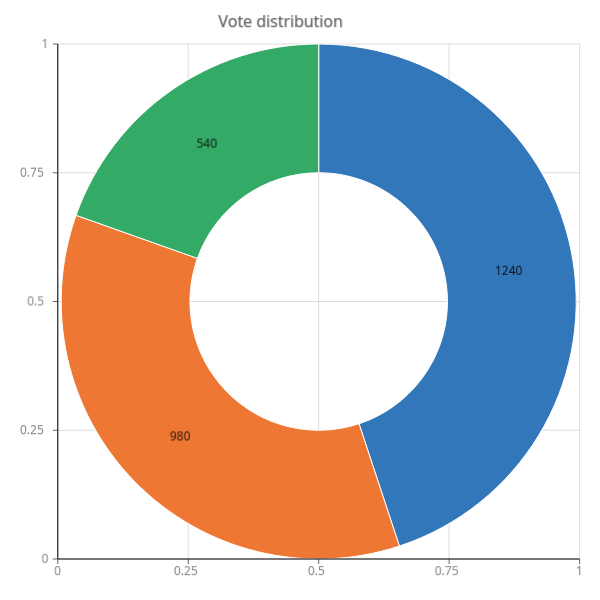
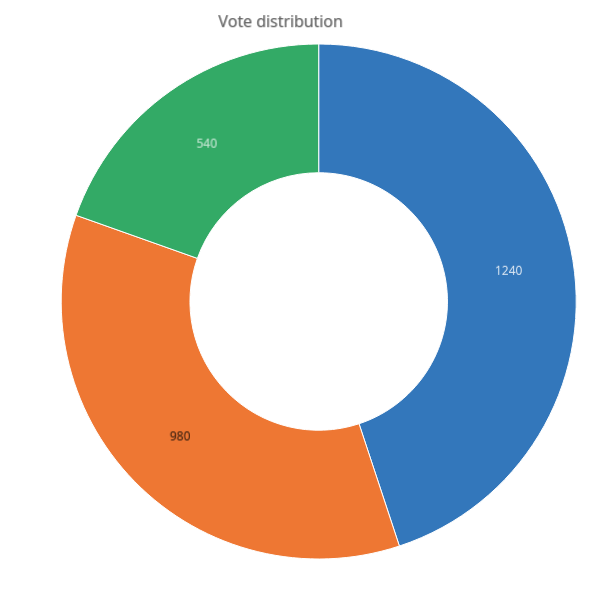
fix(pie): suppress axes for pie-only figures + auto-contrast slice labels
Closes starsight-yrp.2 (axes on pie charts) and starsight-yrp.3 (label
color contrast).

Mark trait change:
- New default `wants_axes() -> bool { true }` method. PieMark overrides
  to false; every other mark inherits the default. Defaulted so
  external impls don't break (pre-1.0 minor break in spirit).

Figure::render_to:
- When `self.marks.iter().all(|m| !m.wants_axes())`, skip both
  render_grid_lines and render_axes. Mixed charts keep the axes for
  the marks that do want them. render_background still runs so the
  plot rect's white fill stays visible.

PieMark::render:
- Auto-pick label color per slice via Rec. 601 luminance: white text
  when slice fill luminance < 0.5, black otherwise. The explicit
  `.label_color(c)` builder still wins for callers who set it
  explicitly away from the BLACK default.

Two snapshots regenerate (snapshot_pie_basic, snapshot_donut_basic).
Example PNGs (pie.png, donut.png) visually verified — wedges read as
a clean pie/donut without numeric axis chrome, percent / value labels
readable on every slice including the dark blue and pink ones.

diff --git a/starsight-layer-3/src/marks/pie.rs b/starsight-layer-3/src/marks/pie.rs
@@ -170,10 +170,11 @@ impl Mark for PieMark {
             } else {
                 build_pie_slice(cx, cy, outer_r, start_angle, end_angle)
             };
+            let slice_color = self.slice_color(i);
             let style = PathStyle {
                 stroke_color: Color::WHITE,
                 stroke_width: 1.0,
-                fill_color: Some(self.slice_color(i)),
+                fill_color: Some(slice_color),
                 ..PathStyle::default()
             };
             backend.draw_path(&path, &style)?;
@@ -196,11 +197,23 @@ impl Mark for PieMark {
                 let (tw, _) = backend
                     .text_extent(&text, font_size)
                     .unwrap_or((0.0, font_size));
+                // Auto-pick label color for contrast against the slice fill
+                // (yrp.3). The user-facing `.label_color(c)` builder still
+                // wins when explicitly set away from the BLACK default.
+                let resolved_label_color = if self.label_color == Color::BLACK {
+                    if luminance(slice_color) < 0.5 {
+                        Color::WHITE
+                    } else {
+                        Color::BLACK
+                    }
+                } else {
+                    self.label_color
+                };
                 backend.draw_text(
                     &text,
                     Point::new(lx - tw * 0.5, ly + font_size * 0.4),
                     font_size,
-                    self.label_color,
+                    resolved_label_color,
                 )?;
             }
             start_angle = end_angle;
@@ -236,6 +249,22 @@ impl Mark for PieMark {
     fn legend_glyph(&self) -> LegendGlyph {
         LegendGlyph::Bar
     }
+
+    fn wants_axes(&self) -> bool {
+        // Pie / donut charts are angular — numeric x/y axes around them
+        // are visual noise. The figure suppresses axes + grid when every
+        // mark on it returns `false` here (yrp.2).
+        false
+    }
+}
+
+/// Rec. 601 luminance for a sRGB color, in `[0.0, 1.0]`. Used to pick a
+/// readable label color against an arbitrary slice fill.
+fn luminance(c: Color) -> f32 {
+    let r = f32::from(c.r) / 255.0;
+    let g = f32::from(c.g) / 255.0;
+    let b = f32::from(c.b) / 255.0;
+    0.299 * r + 0.587 * g + 0.114 * b
 }
 
 // ── arc geometry ─────────────────────────────────────────────────────────────────────────────────

diff --git a/starsight-layer-5/src/figures.rs b/starsight-layer-5/src/figures.rs
@@ -390,19 +390,28 @@ impl Figure {
             &fonts,
         )?;
 
+        // Marks like PieMark are angular and want no Cartesian axis chrome.
+        // Skip render_grid_lines + render_axes only when *every* mark on the
+        // figure agrees — mixed charts keep the axes for the others (yrp.2).
+        let suppress_axes = !self.marks.is_empty() && self.marks.iter().all(|m| !m.wants_axes());
+
         backend.set_clip(Some(plot_area))?;
-        crate::renders::render_grid_lines(&coord, backend, &self.theme)?;
+        if !suppress_axes {
+            crate::renders::render_grid_lines(&coord, backend, &self.theme)?;
+        }
         self.render_marks(&coord, backend)?;
         backend.set_clip(None)?;
 
-        crate::renders::render_axes(
-            &coord,
-            backend,
-            &category_labels,
-            use_y_axis_labels,
-            &self.theme,
-            &fonts,
-        )?;
+        if !suppress_axes {
+            crate::renders::render_axes(
+                &coord,
+                backend,
+                &category_labels,
+                use_y_axis_labels,
+                &self.theme,
+                &fonts,
+            )?;
+        }
 
         let legend_entries: Vec<crate::renders::LegendEntry> = self
             .marks

diff --git a/starsight-layer-3/src/marks.rs b/starsight-layer-3/src/marks.rs
@@ -136,6 +136,14 @@ pub trait Mark {
     fn legend_glyph(&self) -> LegendGlyph {
         LegendGlyph::Line
     }
+    /// Whether the figure should draw numeric x/y axes around this mark. Most
+    /// marks live on a Cartesian axis and want them; angular / decorative
+    /// marks like [`PieMark`] override to `false` so the figure suppresses
+    /// the axis chrome. The figure honours this only when *every* mark on it
+    /// returns `false`; mixed charts keep the axes for the others.
+    fn wants_axes(&self) -> bool {
+        true
+    }
 }
 
 // ── LineMark ─────────────────────────────────────────────────────────────────────────────────────
